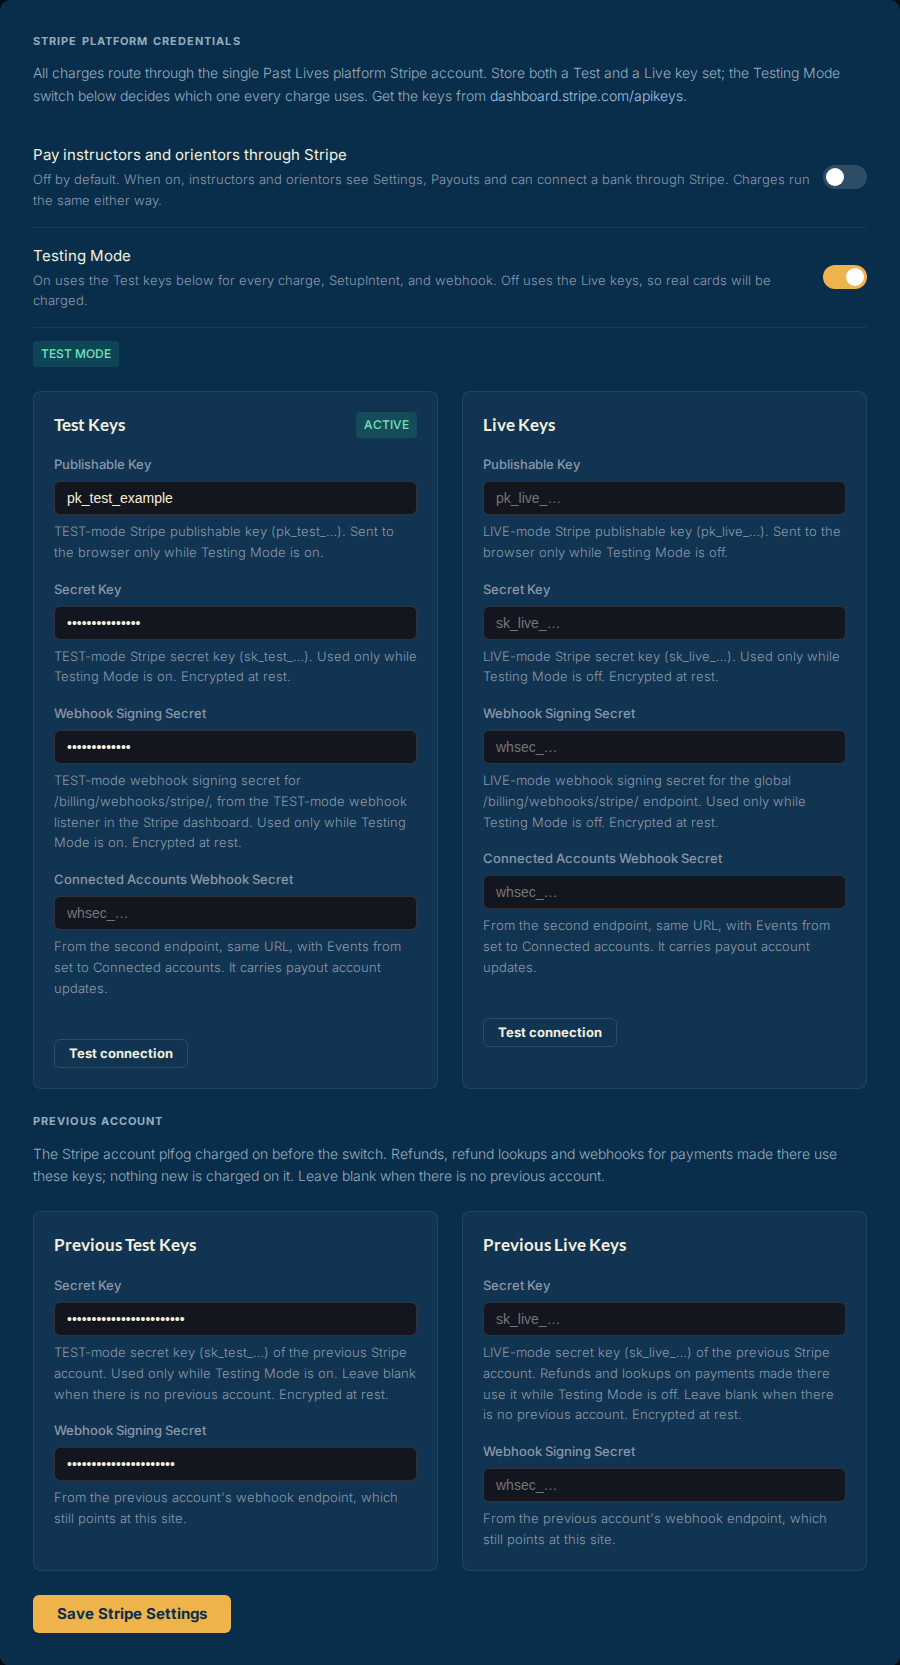
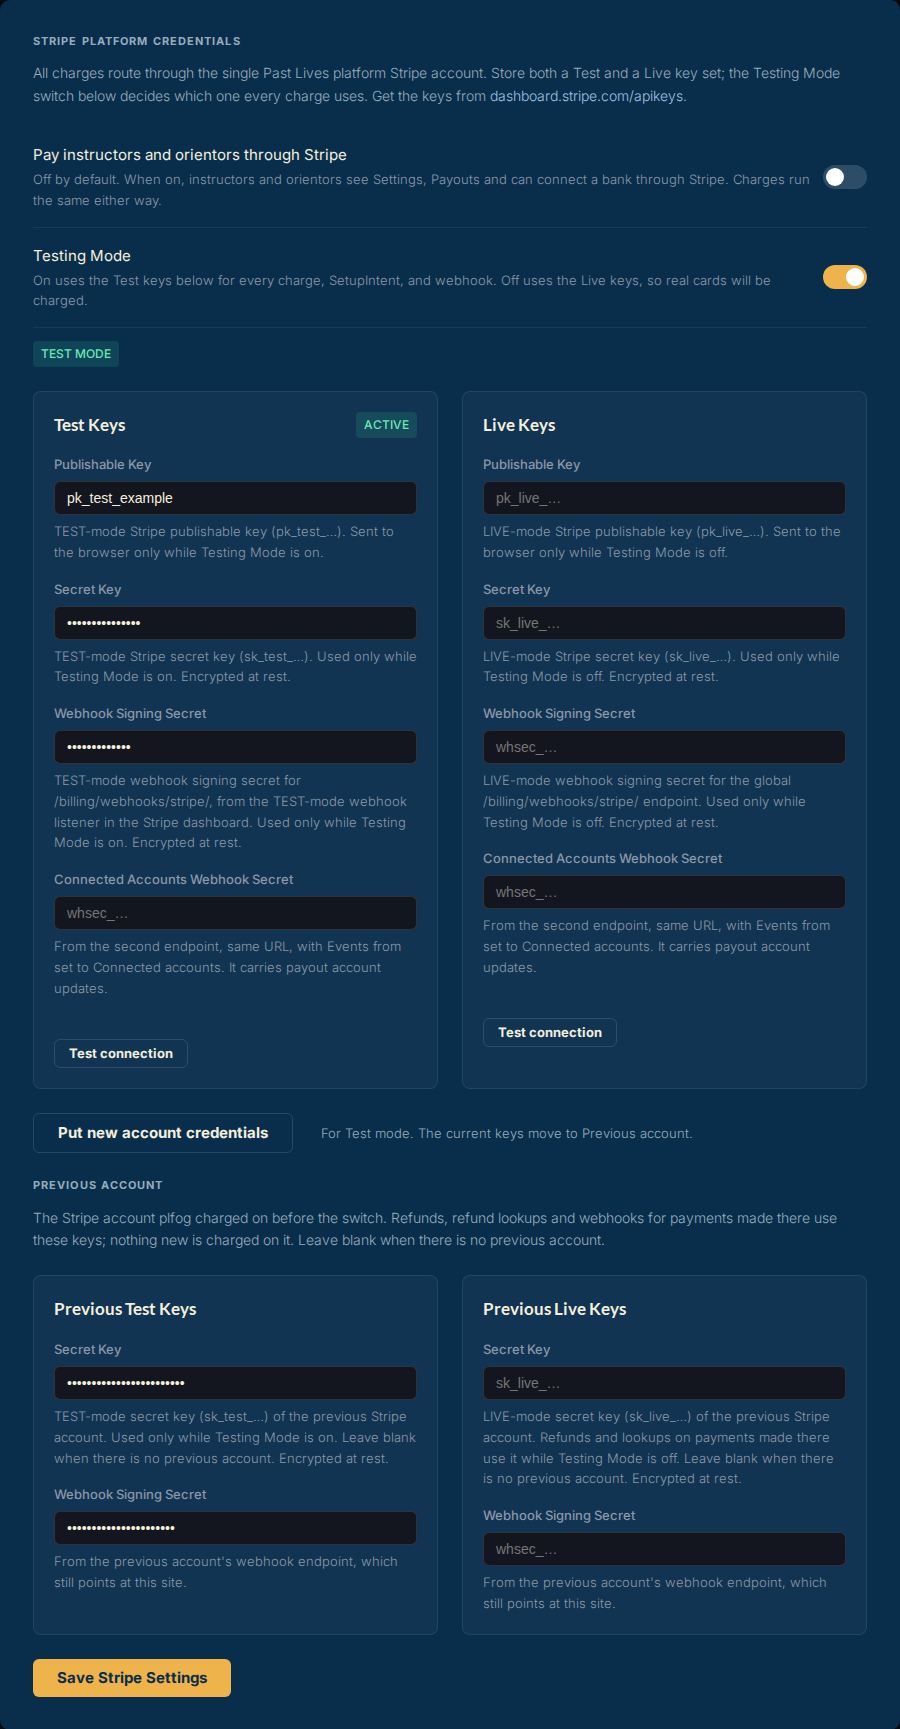
[billing] Put new account credentials moves the current Stripe keys to Previous account (#702)
A button on the Stripe tab opens a modal for the new account's publishable key,
secret key, webhook signing secret and Connected accounts webhook secret for the
active mode. BillingSettings.switch_to_new_account moves the current secret key
and webhook signing secret into Previous account and makes the new keys active in
one transaction. It rejects a secret key for the other mode or equal to the
current one. The normal Save Stripe Settings form never moves credentials.
Screenshots show the button and the open modal.

Claude-Session: https://claude.ai/code/session_01XMFiuwJg8mSZYkDkK2nz8Q

diff --git a/templates/billing/partials/new_stripe_account_form.html b/templates/billing/partials/new_stripe_account_form.html
@@ -1,0 +1,15 @@
+{# Put new account credentials modal body (#702): the current mode's keys move to Previous account. #}
+<form method="post" action="{% url 'billing_switch_stripe_account' %}">
+  {% csrf_token %}
+  <p style="margin:0 0 1rem;font-size:0.875rem;color:var(--hub-text-muted, #96ACBB)">
+    For {{ billing_settings.mode_label }} mode. The current secret key and webhook signing secret move to Previous account, and these become the active keys.
+  </p>
+  {% include "components/form_field.html" with field=new_stripe_account_form.publishable_key field_label="Publishable Key" %}
+  {% include "components/form_field.html" with field=new_stripe_account_form.secret_key field_label="Secret Key" %}
+  {% include "components/form_field.html" with field=new_stripe_account_form.webhook_secret field_label="Webhook Signing Secret" %}
+  {% include "components/form_field.html" with field=new_stripe_account_form.accounts_webhook_secret field_label="Connected Accounts Webhook Secret" %}
+  <div class="pl-form-actions">
+    <button type="button" class="pl-btn pl-btn--secondary" @click="$dispatch('close-modal', 'new-stripe-account')">Cancel</button>
+    <button type="submit" class="pl-btn pl-btn--primary">Put new account credentials</button>
+  </div>
+</form>

diff --git a/templates/billing/admin_dashboard.html b/templates/billing/admin_dashboard.html
@@ -566,6 +566,11 @@
 
       </div>
 
+      <div class="pl-form-actions">
+        <button type="button" class="pl-btn pl-btn--secondary" x-data @click="$dispatch('open-modal', 'new-stripe-account')">Put new account credentials</button>
+        <span style="color:#96ACBB;font-size:0.8125rem;margin-left:0.75rem">For {{ billing_settings.mode_label }} mode. The current keys move to Previous account.</span>
+      </div>
+
       {# ---- Previous account (#702): remove with the previous_* fields once PLM FOG closes ---- #}
       <div class="pl-section-label" style="margin-top:1.5rem">Previous Account</div>
       <p style="color:#96ACBB;font-size:0.875rem;margin:0 0 1.25rem">
@@ -592,6 +597,8 @@
         <button type="submit" class="pl-btn pl-btn--primary">Save Stripe Settings</button>
       </div>
     </form>
+
+    {% include "components/modal.html" with modal_id="new-stripe-account" modal_title="Put new account credentials" modal_size="md" modal_body_include="billing/partials/new_stripe_account_form.html" %}
   </div>
 
   {# ---- Guild Products ---- #}

diff --git a/billing/spec/views/new_stripe_account_spec.py b/billing/spec/views/new_stripe_account_spec.py
@@ -1,0 +1,153 @@
+"""BDD specs for "Put new account credentials" on the Stripe tab (#702)."""
+
+from __future__ import annotations
+
+import pytest
+from django.contrib.auth.models import User
+from django.contrib.messages import get_messages
+from django.test import Client
+
+from billing.models import BillingSettings
+
+pytestmark = pytest.mark.django_db
+
+SWITCH_URL = "/billing/admin/connect-platform/switch-account/"
+SAVE_URL = "/billing/admin/connect-platform/save/"
+STRIPE_TAB_URL = "/billing/admin/dashboard/?tab=stripe"
+
+OLD = {
+    "connect_platform_publishable_key": "pk_live_old",
+    "connect_platform_secret_key": "sk_live_old",
+    "connect_platform_webhook_secret": "whsec_live_old",
+    "connect_accounts_webhook_secret": "whsec_acct_live_old",
+    "test_connect_platform_publishable_key": "pk_test_old",
+    "test_connect_platform_secret_key": "sk_test_old",
+    "test_connect_platform_webhook_secret": "whsec_test_old",
+    "test_connect_accounts_webhook_secret": "whsec_acct_test_old",
+}
+
+
+def _admin(client: Client) -> None:
+    User.objects.create_superuser(username="admin", password="pass", email="admin@example.com")
+    client.login(username="admin", password="pass")
+
+
+def _settings(*, test_mode: bool) -> BillingSettings:
+    bs = BillingSettings.load()
+    bs.test_mode = test_mode
+    for name, value in OLD.items():
+        setattr(bs, name, value)
+    bs.save()
+    return bs
+
+
+def _new(secret_key: str) -> dict[str, str]:
+    return {
+        "publishable_key": "pk_new",
+        "secret_key": secret_key,
+        "webhook_secret": "whsec_new",
+        "accounts_webhook_secret": "whsec_acct_new",
+    }
+
+
+def _messages(response) -> list[str]:
+    return [str(message) for message in get_messages(response.wsgi_request)]
+
+
+def describe_put_new_account_credentials():
+    def it_shows_the_button_and_its_modal_on_the_stripe_tab(client: Client):
+        _admin(client)
+
+        html = client.get(STRIPE_TAB_URL).content.decode()
+
+        assert "Put new account credentials" in html
+        assert 'id="new-stripe-account-title"' in html
+        assert 'action="/billing/admin/connect-platform/switch-account/"' in html
+
+    def it_moves_the_live_keys_to_previous_and_makes_the_new_ones_active(client: Client):
+        _admin(client)
+        _settings(test_mode=False)
+
+        response = client.post(SWITCH_URL, _new("sk_live_new"))
+
+        bs = BillingSettings.load()
+        assert (bs.previous_secret_key, bs.previous_webhook_secret) == ("sk_live_old", "whsec_live_old")
+        assert (
+            bs.connect_platform_publishable_key,
+            bs.connect_platform_secret_key,
+            bs.connect_platform_webhook_secret,
+            bs.connect_accounts_webhook_secret,
+        ) == ("pk_new", "sk_live_new", "whsec_new", "whsec_acct_new")
+        assert (bs.test_previous_secret_key, bs.test_connect_platform_secret_key) == ("", "sk_test_old")
+        assert _messages(response) == [
+            "New Stripe account credentials saved. The old secret key and webhook signing secret moved to "
+            "Previous account."
+        ]
+
+    def it_moves_the_test_keys_to_previous_and_makes_the_new_ones_active(client: Client):
+        _admin(client)
+        _settings(test_mode=True)
+
+        client.post(SWITCH_URL, _new("sk_test_new"))
+
+        bs = BillingSettings.load()
+        assert (bs.test_previous_secret_key, bs.test_previous_webhook_secret) == ("sk_test_old", "whsec_test_old")
+        assert (
+            bs.test_connect_platform_publishable_key,
+            bs.test_connect_platform_secret_key,
+            bs.test_connect_platform_webhook_secret,
+            bs.test_connect_accounts_webhook_secret,
+        ) == ("pk_new", "sk_test_new", "whsec_new", "whsec_acct_new")
+        assert (bs.previous_secret_key, bs.connect_platform_secret_key) == ("", "sk_live_old")
+
+    def it_rejects_a_secret_key_for_the_other_mode_and_moves_nothing(client: Client):
+        _admin(client)
+        _settings(test_mode=False)
+
+        response = client.post(SWITCH_URL, _new("sk_test_new"))
+
+        bs = BillingSettings.load()
+        assert (bs.previous_secret_key, bs.connect_platform_secret_key) == ("", "sk_live_old")
+        assert _messages(response) == ["secret_key: A Live mode secret key starts with sk_live_."]
+
+    def it_rejects_the_current_secret_key_and_moves_nothing(client: Client):
+        _admin(client)
+        _settings(test_mode=False)
+
+        response = client.post(SWITCH_URL, _new("sk_live_old"))
+
+        bs = BillingSettings.load()
+        assert (bs.previous_secret_key, bs.connect_platform_webhook_secret) == ("", "whsec_live_old")
+        assert _messages(response) == [
+            "secret_key: This is the current account's secret key. Paste the new account's key."
+        ]
+
+    def it_forbids_a_member_who_is_not_an_admin(client: Client):
+        User.objects.create_user(username="member", password="pass", email="member@example.com")
+        client.login(username="member", password="pass")
+        _settings(test_mode=False)
+
+        response = client.post(SWITCH_URL, _new("sk_live_new"))
+
+        assert response.status_code == 403
+        assert BillingSettings.load().connect_platform_secret_key == "sk_live_old"
+
+
+def describe_the_normal_stripe_settings_save():
+    def it_never_moves_credentials_to_previous_account(client: Client):
+        _admin(client)
+        _settings(test_mode=False)
+
+        client.post(
+            SAVE_URL,
+            {
+                **OLD,
+                "connect_platform_secret_key": "sk_live_pasted_over",
+                "previous_secret_key": "",
+                "previous_webhook_secret": "",
+            },
+        )
+
+        bs = BillingSettings.load()
+        assert bs.connect_platform_secret_key == "sk_live_pasted_over"
+        assert (bs.previous_secret_key, bs.previous_webhook_secret) == ("", "")

diff --git a/billing/models.py b/billing/models.py
@@ -334,6 +334,44 @@ class BillingSettings(models.Model):
         """The Connected accounts webhook signing secret for the currently selected (test/live) mode."""
         return self.test_connect_accounts_webhook_secret if self.test_mode else self.connect_accounts_webhook_secret
 
+    # ---- Previous Stripe account (#702): remove with the previous_* fields ----
+
+    def switch_to_new_account(
+        self, *, publishable_key: str, secret_key: str, webhook_secret: str, accounts_webhook_secret: str
+    ) -> None:
+        """Make a new Stripe account the active one for the current mode; the current one becomes Previous account.
+
+        In one transaction: the current mode's secret key and platform webhook secret
+        overwrite that mode's previous fields, and the four new values become the
+        active ones. The normal Stripe tab save never moves credentials; only this does.
+
+        Raises:
+            ValidationError: keyed by argument name, with nothing saved, when the secret
+                key's prefix does not match the mode, when it is the current secret key,
+                or when payouts are on and the Connected accounts webhook secret is blank.
+        """
+        slot = "test_" if self.test_mode else ""
+        prefix = "sk_test_" if self.test_mode else "sk_live_"
+        with transaction.atomic():
+            locked = BillingSettings.objects.select_for_update().get(pk=self.pk)
+            current_secret_key = getattr(locked, f"{slot}connect_platform_secret_key")
+            if not secret_key.startswith(prefix):
+                raise ValidationError({"secret_key": f"A {locked.mode_label} mode secret key starts with {prefix}."})
+            if secret_key == current_secret_key:
+                raise ValidationError(
+                    {"secret_key": "This is the current account's secret key. Paste the new account's key."}
+                )
+            if locked.connect_enabled and not accounts_webhook_secret:
+                raise ValidationError({"accounts_webhook_secret": "Required while payouts are on."})
+            setattr(locked, f"{slot}previous_secret_key", current_secret_key)
+            setattr(locked, f"{slot}previous_webhook_secret", getattr(locked, f"{slot}connect_platform_webhook_secret"))
+            setattr(locked, f"{slot}connect_platform_publishable_key", publishable_key)
+            setattr(locked, f"{slot}connect_platform_secret_key", secret_key)
+            setattr(locked, f"{slot}connect_platform_webhook_secret", webhook_secret)
+            setattr(locked, f"{slot}connect_accounts_webhook_secret", accounts_webhook_secret)
+            locked.save()
+        self.refresh_from_db()
+
     @property
     def active_previous_secret_key(self) -> str:
         """The previous Stripe account's secret key for the current mode (#702); blank when there is none."""

diff --git a/billing/forms.py b/billing/forms.py
@@ -506,6 +506,50 @@ class ConnectPlatformSettingsForm(forms.ModelForm):
         }
 
 
+class NewStripeAccountForm(forms.Form):
+    """The "Put new account credentials" modal on the Stripe tab (#702).
+
+    Collects the new account's keys for the current mode; ``switch`` hands them to
+    ``BillingSettings.switch_to_new_account``, which moves the current keys to Previous account.
+    """
+
+    publishable_key = forms.CharField(
+        max_length=255,
+        widget=forms.TextInput(attrs={"placeholder": "pk_…", "autocomplete": "off"}),
+        help_text="The new account's publishable key for this mode.",
+    )
+    secret_key = forms.CharField(
+        max_length=512,
+        widget=forms.PasswordInput(attrs={"placeholder": "sk_…", "autocomplete": "off"}),
+        help_text="The new account's secret key. Must match the current mode (sk_live_ or sk_test_).",
+    )
+    webhook_secret = forms.CharField(
+        max_length=512,
+        widget=forms.PasswordInput(attrs={"placeholder": "whsec_…", "autocomplete": "off"}),
+        help_text="Signing secret of the new account's webhook endpoint pointed at this site.",
+    )
+    accounts_webhook_secret = forms.CharField(
+        max_length=512,
+        required=False,
+        widget=forms.PasswordInput(attrs={"placeholder": "whsec_…", "autocomplete": "off"}),
+        help_text="Signing secret of the new account's Connected accounts endpoint. Required while payouts are on.",
+    )
+
+    def switch(self, settings: BillingSettings) -> bool:
+        """Switch ``settings`` to the new account; on a rejected key add the errors here and return False."""
+        try:
+            settings.switch_to_new_account(
+                publishable_key=self.cleaned_data["publishable_key"],
+                secret_key=self.cleaned_data["secret_key"],
+                webhook_secret=self.cleaned_data["webhook_secret"],
+                accounts_webhook_secret=self.cleaned_data["accounts_webhook_secret"],
+            )
+        except forms.ValidationError as exc:
+            self.add_error(None, exc)
+            return False
+        return True
+
+
 class ProductForm(forms.ModelForm):
     """Product fields only — splits are handled by ProductRevenueSplitFormSet."""
 

diff --git a/billing/views.py b/billing/views.py
@@ -348,7 +348,12 @@ def admin_tab_dashboard(request: HttpRequest) -> HttpResponse:
     """
     from django.contrib import admin as django_admin
 
-    from billing.forms import BillingSettingsForm, ConnectPlatformSettingsForm, ReconciliationSettingsForm
+    from billing.forms import (
+        BillingSettingsForm,
+        ConnectPlatformSettingsForm,
+        NewStripeAccountForm,
+        ReconciliationSettingsForm,
+    )
     from billing.models import BillingSettings, Product
     from core.features import is_on
     from membership.models import Guild
@@ -464,6 +469,7 @@ def admin_tab_dashboard(request: HttpRequest) -> HttpResponse:
         {
             "settings_form": BillingSettingsForm(instance=settings_obj),
             "connect_platform_form": ConnectPlatformSettingsForm(instance=settings_obj),
+            "new_stripe_account_form": NewStripeAccountForm(),
             "reconciliation_settings_form": ReconciliationSettingsForm(instance=settings_obj),
             "billing_settings": settings_obj,
             "products": Product.objects.select_related("guild").order_by("guild__name", "name"),
@@ -1120,6 +1126,25 @@ def billing_save_connect_platform(request: HttpRequest) -> HttpResponse:
     if form.is_valid():
         form.save()
         django_messages.success(request, "Stripe platform settings saved.")
+    else:
+        for field, errors in form.errors.items():
+            for error in errors:
+                django_messages.error(request, f"{field}: {error}")
+    return redirect("/billing/admin/dashboard/?tab=stripe")
+
+
+@fog_admin_required
+@require_POST
+def billing_switch_stripe_account(request: HttpRequest) -> HttpResponse:
+    """Put new account credentials (#702): the new account becomes active, the current one moves to Previous account."""
+    from billing.forms import NewStripeAccountForm
+
+    form = NewStripeAccountForm(request.POST)
+    if form.is_valid() and form.switch(BillingSettings.load()):
+        django_messages.success(
+            request,
+            "New Stripe account credentials saved. The old secret key and webhook signing secret moved to Previous account.",
+        )
     else:
         for field, errors in form.errors.items():
             for error in errors:

diff --git a/billing/urls.py b/billing/urls.py
@@ -99,4 +99,9 @@ urlpatterns = [
         views.billing_save_connect_platform,
         name="billing_save_connect_platform",
     ),
+    path(
+        "admin/connect-platform/switch-account/",
+        views.billing_switch_stripe_account,
+        name="billing_switch_stripe_account",
+    ),
 ]

diff --git a/billing/AGENTS.md b/billing/AGENTS.md
@@ -40,7 +40,7 @@ Guild payouts are reconciled manually via the admin Reports page — no automate
 
 All charges route through one platform Stripe account — credentials live on `BillingSettings` (encrypted). No per-guild Stripe accounts, no destination charges, no direct-keys Checkout. This was simplified in v1.5.0.
 
-**Previous account (#702).** Payments made before the switch to the Past Lives Member Portal account live on PLM FOG. `BillingSettings.previous_*` / `test_previous_*` hold its secret key and webhook secret; `stripe_utils._on_owning_account` retries a refund, refund list or Checkout Session retrieve/expire on it once when the active account answers `resource_missing`, and `construct_webhook_event` tries its webhook secret last. Creation calls never fall back. Once PLM FOG closes, remove those fields, the "Previous account" block in `stripe_utils.py` and the Stripe tab's Previous Account section in one PR.
+**Previous account (#702).** Payments made before the switch to the Past Lives Member Portal account live on PLM FOG. `BillingSettings.previous_*` / `test_previous_*` hold its secret key and webhook secret; `stripe_utils._on_owning_account` retries a refund, refund list or Checkout Session retrieve/expire on it once when the active account answers `resource_missing`, and `construct_webhook_event` tries its webhook secret last. Creation calls never fall back. The Stripe tab's "Put new account credentials" modal (`NewStripeAccountForm`, `billing_switch_stripe_account`) calls `BillingSettings.switch_to_new_account`, which moves the current mode's secret key and webhook secret into Previous account in one transaction; the normal save never moves credentials. Once PLM FOG closes, remove those fields, the "Previous account" block in `stripe_utils.py` the Stripe tab's Previous Account section and the switch modal in one PR.
 
 **Prereq**: `Tab.can_add_entry` requires a saved payment method on file. Off-session PaymentIntents don't work without one.
 
